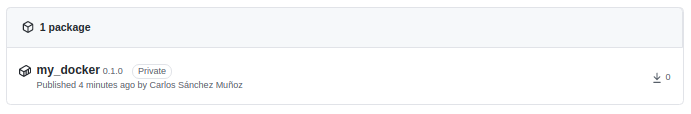
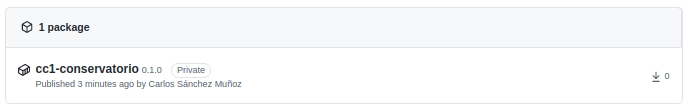
#52 Nombre del docker cambiado a cc1-conservatorio

diff --git a/docs/docker.md b/docs/docker.md
@@ -177,8 +177,8 @@ En primer lugar nos damos de alta utilizando preferentemente el mismo *nickname*
 
 ```
 docker login --username=carlossamu7
-docker tag ce61eb646e2c carlossamu7/my_docker:latest
-docker push carlossamu7/my_docker
+docker tag ce61eb646e2c carlossamu7/cc1-conservatorio:latest
+docker push carlossamu7/cc1-conservatorio
 ```
 
 ![](https://github.com/Carlossamu7/CC1-Conservatorio/blob/master/docs/images/sem_06_07/docker_login.png)
@@ -189,7 +189,7 @@ Se puede observar el docker subido correctamente en la plataforma.
 
 ![](https://github.com/Carlossamu7/CC1-Conservatorio/blob/master/docs/images/sem_06_07/my_docker_hub.png)
 
-[Enlace al contenedor en Docker Hub](https://hub.docker.com/r/carlossamu7/my_docker).
+[Enlace al contenedor en Docker Hub](https://hub.docker.com/r/carlossamu7/cc1-conservatorio).
 
 #### Actualización automática
 
@@ -224,8 +224,8 @@ Este es el [tutorial](https://docs.github.com/es/free-pro-team@latest/packages/u
 4. Asignamos el `tag` indicando el nombre de la imagen y la versión y pusheamos.
 
 ```
-docker tag <ID> ghcr.io/carlossamu7/my_docker:0.1.0
-docker push ghcr.io/carlossamu7/my_docker:0.1.0
+docker tag <ID> ghcr.io/carlossamu7/cc1-conservatorio:0.1.0
+docker push ghcr.io/carlossamu7/cc1-conservatorio:0.1.0
 ```
 
 ![](https://github.com/Carlossamu7/CC1-Conservatorio/blob/master/docs/images/sem_06_07/github_tag_push.png)
@@ -237,6 +237,8 @@ Observamos el resultado en la sección *Packages* de GitHub.
 5. Finalmente, dentro del paquete GitHub nos indica que podemos conectar el docker a un repositorio. Hacemos esta configuración eligiendo el repositorio del proyecto. Veamos:
 
 ![](https://github.com/Carlossamu7/CC1-Conservatorio/blob/master/docs/images/sem_06_07/github_docker_conectado.png)
+
+[Enlace al package en GitHub](https://github.com/users/Carlossamu7/packages/container/package/cc1-conservatorio)
 
 ### Avance del proyecto
 
